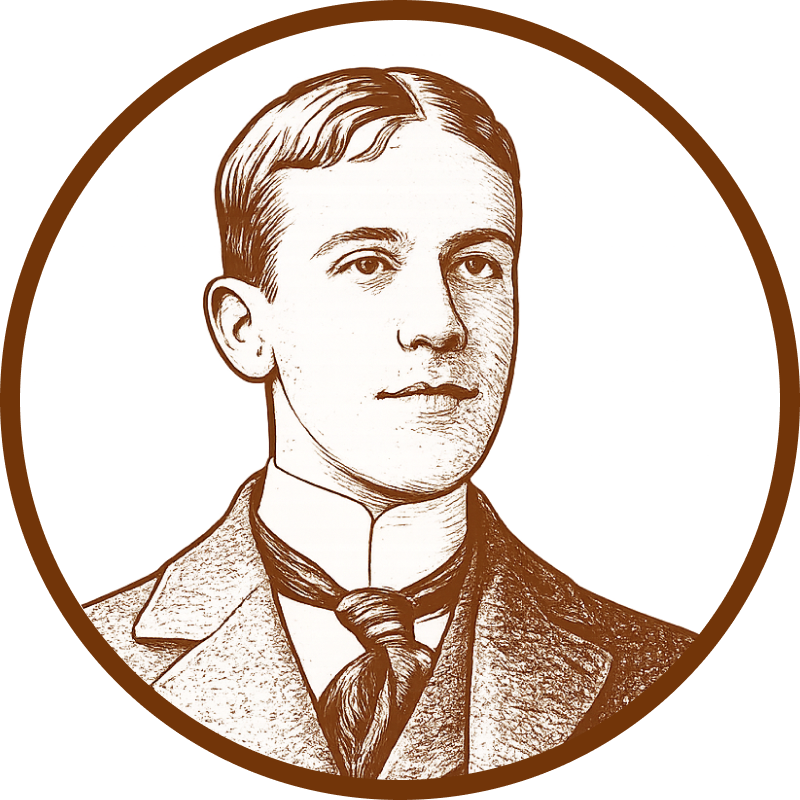
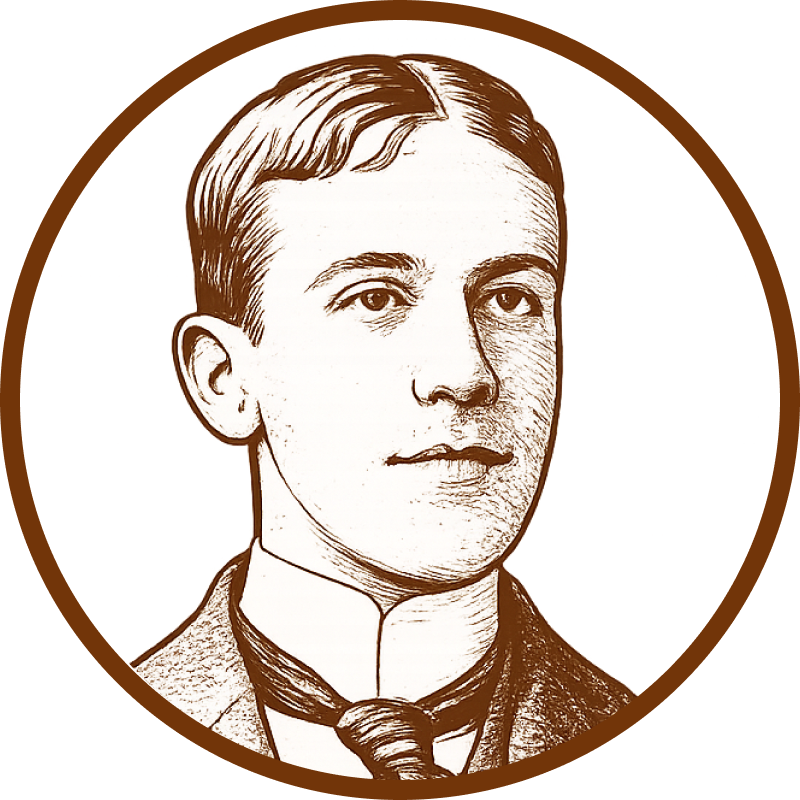
Add Edgar and Wayne Sr. profiles, update all existing portraits
New profiles for Edgar Ketchum Betts and Wayne Gardner Betts Sr.
Updated refined versions of Anson, Horace, and Wayne Jr. portraits.

Changed region(s): [[0.0938, 0.0625, 0.875, 1.0]]

diff --git a/src/index.html b/src/index.html
@@ -1114,8 +1114,9 @@
   <!-- ERA VI: Edgar -->
   <section class="era-block">
 
-    <div class="person">
+    <div class="person has-profile">
       <div class="gen-badge">Gen XI</div>
+      <img class="person-profile" src="image/profile-edgar.png" alt="Edgar Ketchum Betts" />
       <div class="person-header">
         <h3>Edgar Ketchum Betts</h3>
         <span class="year-range">b. 1842</span>
@@ -1239,8 +1240,9 @@
   <!-- ERA IX: The Living Legacy -->
   <section class="era-block">
 
-    <div class="person">
+    <div class="person has-profile">
       <div class="gen-badge">Gen XIV</div>
+      <img class="person-profile" src="image/profile-wayne-sr.png" alt="Wayne Gardner Betts, Sr." />
       <div class="person-header">
         <h3>Wayne Gardner Betts, Sr.</h3>
         <span class="year-range">b. 1951</span>
